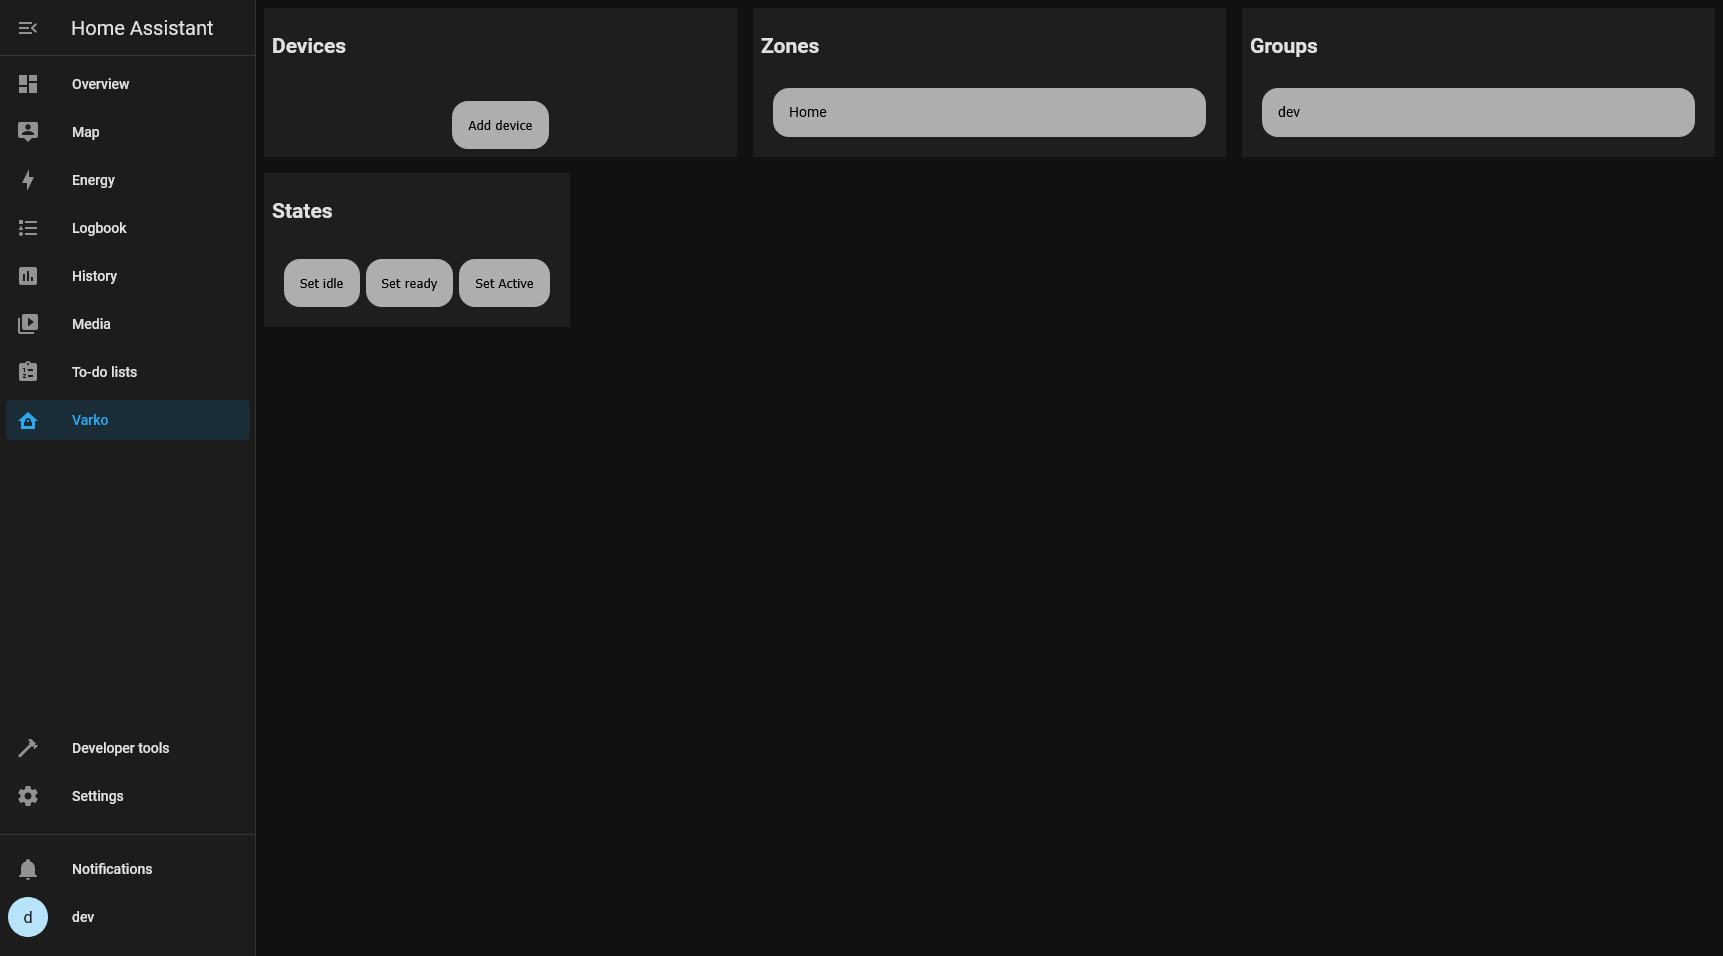
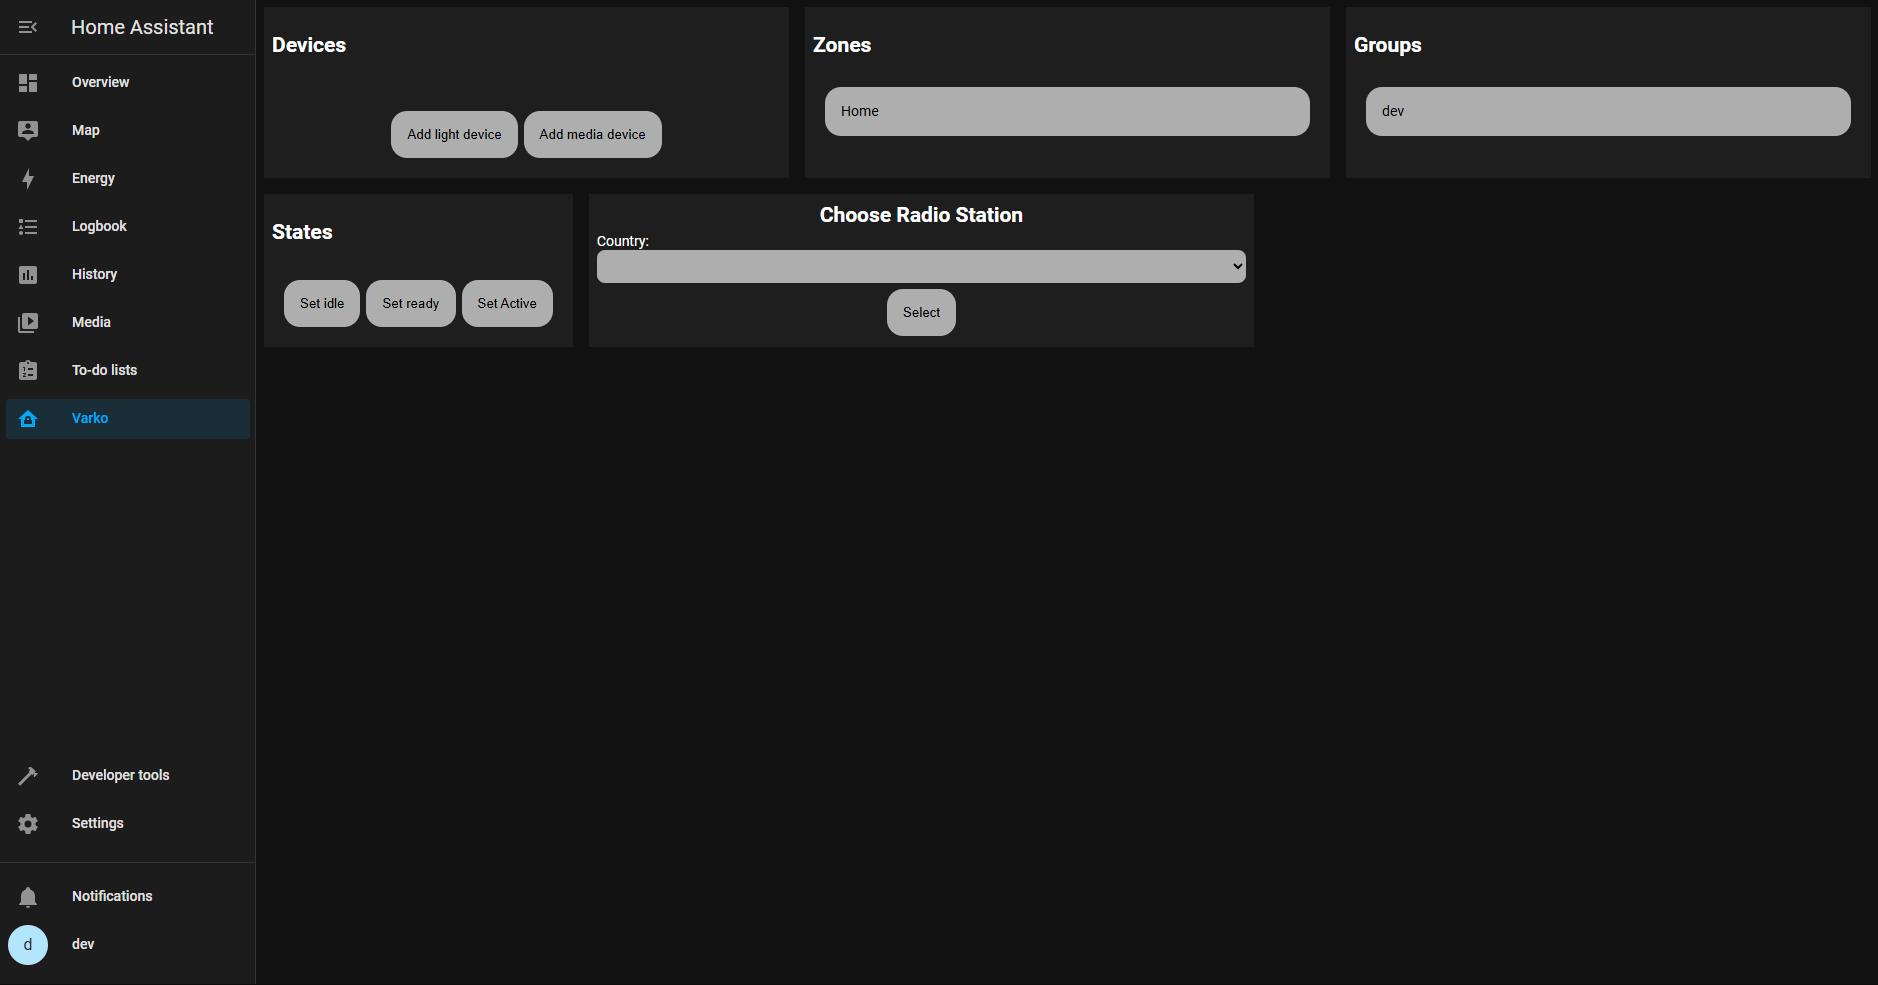
Popravki podatkov testiranja, zaslonskih mask

diff --git a/docs/04_Koncna_izdaja_celovito_koncno_porocilo.md b/docs/04_Koncna_izdaja_celovito_koncno_porocilo.md
@@ -202,24 +202,53 @@ Spodaj so naštete funkcionalne zahteve, razdeljene po prioriteti implementacije
 
 #### Zaslonske maske
 
-[//]: # (TODO: POSODOBI ZASLOVNSKE MASKE)
-
 Uporabniški vmesnik je izdelan kot ločena plošča v sistemu Home Assistant, kjer uporabnik dostopa do nastavitev integracije. Do nje lahko dostopa uporabnik sistema Home Assistant preko glavnega menija na levi strani kontrolne plošče.
 
 Na spodnjih slikah je prikazana kontrolna plošča integracije, ki omogoča:
-- upravljanje z integriranimi napravami - dodajanje in odvzemanje naprav iz uporabe
+- upravljanje z integriranimi napravami - dodajanje in odvzemanje naprav (tako svetlobnih kot zvočnih) iz uporabe
 - upravljanje z lokacijskimi conami - določitev lokacijske cone za uporabo pri delovanju sistema
 - upravljanje s skupino uporabnikov - dodajanje in odvzemanje uporabnikov sistema Home Assistant iz uporabe pri delovanju sistema
 - upravljanje s stanji sistema - ročna nastavitev stanja sistema
+- upravljanje z izbiro radijske postaje - nastavitev za zvočno simulacijo prisotnosti
 
 <p align="center">
   <img src="gradivo/img/Izvedljiv sistem/ui_general.png" alt="Splošen izgled UI">
 </p>
 
-Spodnja slika predstavlja pojavno okno z menijem, ki se pojavi ob kliku na opcijo "Add device". Vsebuje vnosna polja, ki jih je potrebno pred potrditvijo izpolniti.
+Spodaj se nahajajo opisi vsake izmed zgoraj vidnih/naštetih opcij.
+
+Spodnja slika predstavlja primer pojavnega okna z menijem, ki se pojavi ob kliku na opcijo "Devices". Vsebuje vnosna polja, ki jih je potrebno pred potrditvijo izpolniti.
 
 <p align="center">
-  <img src="gradivo/img/Izvedljiv sistem/ui_detail.png" alt="Izgled UI menija">
+  <img src="gradivo/img/Izvedljiv sistem/ui_devices.png" alt="UI meni naprav">
+</p>
+
+Spodnja slika prikazuje primer pojavnega okna z menijem, ki se pojavi ob kliku na opcijo "Zones". V njem uporabnik izbira lokacijsko cono, ki jo je nastavil v Home Assistant, za uporabo pri določanju odsotnosti uporabnikov objekta.
+
+<p align="center">
+  <img src="gradivo/img/Izvedljiv sistem/ui_zones.png" alt="UI meni con">
+</p>
+
+Spodnja slika prikazuje primer pojavnega okna z menijem, ki se pojavi ob kliku na opcijo "Groups". V njem uporabnik ureja skupino uporabnikov objekta.
+
+<p align="center">
+  <img src="gradivo/img/Izvedljiv sistem/ui_groups.png" alt="UI meni skupin">
+</p>
+
+Spodnja slika prikazuje primer pojavnega okna z menijem, ki se pojavi ob kliku na opcijo "States". V njem administrator ročno nastavlja stanje sistema.
+
+<p align="center">
+  <img src="gradivo/img/Izvedljiv sistem/ui_states.png" alt="UI meni stanj">
+</p>
+
+Spodnji sliki prikazujeta primer pojavnega okna z menijem, ki se pojavi ob kliku na opcijo "Choose Radio Station". V njem uporabnik nastavlja radijsko postajo, ki se naj ob simulaciji prisotnosti prižge in začne predvajati. Najprej izbereš državo izvora želene radijske postaje, nato pa še radijsko postajo samo.
+
+<p align="center">
+  <img src="gradivo/img/Izvedljiv sistem/ui_radio_country.png" alt="UI meni radia - države">
+</p>
+
+<p align="center">
+  <img src="gradivo/img/Izvedljiv sistem/ui_radio_station.png" alt="UI meni radia - postaje">
 </p>
 
 Do določenih nastavitev lahko dostopa le administrator sitema Home Assistant, do ostalih pa tudi drugi avtenticirani uporabniki. Ob poskusu nedovoljenega dostopa do funkcionalnosti se uporabniku prikaže obvestilo o premajhnih pooblastilih.
@@ -1298,7 +1327,6 @@ Poslovna logika razvite integracije se ob prejetju sporočila o zaznavi ljudi od
 Stanje sistema lahko administrator sistema kadarkoli nastavi tudi ročno iz uporabniškega vmesnika.
 
 ### Načrtovalski vzorci
-[//]: # (TODO: DODAJ ŠE VSAJ 2 NAČRTOVALSKA VZORCA)
 
 Pri trenutni implementaciji smo se poslužili nekaterih načrtovalski vzorcev, saj so omogočili ne le ponovno uporabo določenih delov kode, temveč tudi večjo preglednost implementacije. Izbrani vzorci so:
 
@@ -1440,27 +1468,7 @@ Za uspešno namestitev sistema je potrebno vzpostaviti in skonfigurirati nasledn
 Za enostavno upravljanje glavnih komponent sistema (Home Assistant, Frigate, posrednik MQTT) se uporabi Docker Compose, ki omogoča enostaven zagon in povezovanje večih vsebnikov. Vse ustrezne nastavitve, vključno z vrati, potmi do konfiguracijskih datotek in parametri za posamezne komponente, so tako definirane v .yaml datoteki, kar bo omogočilo enostavnejšo konfiguracijo, tako med razvojem kot za končne uporabnike.
 
 ## 5.4 Delovanje sistema
-[//]: # (TODO: POPRAVI OPIS IN SLIKE ZA UI)
-
-Uporabniški vmesnik je izdelan kot ločena plošča v sistemu Home Assistant, kjer uporabnik dostopa do nastavitev integracije. Do nje lahko dostopa uporabnik sistema Home Assistant preko glavnega menija na levi strani kontrolne plošče.
-
-Na spodnjih slikah je prikazana kontrolna plošča integracije, ki omogoča:
-- upravljanje z integriranimi napravami - dodajanje in odvzemanje naprav iz uporabe
-- upravljanje z lokacijskimi conami - določitev lokacijske cone za uporabo pri delovanju sistema
-- upravljanje s skupino uporabnikov - dodajanje in odvzemanje uporabnikov sistema Home Assistant iz uporabe pri delovanju sistema
-- upravljanje s stanji sistema - ročna nastavitev stanja sistema
-
-<p align="center">
-  <img src="gradivo/img/Izvedljiv sistem/ui_general.png" alt="Kontrolna plošča">
-</p>
-
-Spodnja slika predstavlja pojavno okno z menijem, ki se pojavi ob kliku na opcijo "Add device". Vsebuje vnosna polja, ki jih je potrebno pred potrditvijo izpolniti.
-
-<p align="center">
-  <img src="gradivo/img/Izvedljiv sistem/ui_detail.png" alt="Odprt meni kontrolne plošče">
-</p>
-
-Do določenih nastavitev lahko dostopa le administrator sitema Home Assistant, do ostalih pa tudi drugi avtenticirani uporabniki. Ob poskusu nedovoljenega dostopa do funkcionalnosti se uporabniku prikaže obvestilo o premajhnih pooblastilih.
+Zaslonske slike in opisi nastavitev sistema v uporabniškem vmesniku so navedeni v tem poročilu, v poglavju 3.1.2, natančneje v podpoglavju zaslonskih mask.
 
 Na dani [povezavi](https://drive.google.com/file/d/1jkdYJKgqECaB8Iw7G31vEh_gptoYXKOg/view) je dostopen video, na katerem je ravidno delovanje ročne aktivacije/deaktivacije sistema (stanja ACTIVE/READY), in s tem posledično tudi vklopa/izklopa simulacije prisotnosti (ta v danem primeru prižge luč).
 Iz videa je razvidno, da se v primeru ročne aktivacije sistema (nastavitev v stanje ACTIVE) luč v sklopu simulacije prisotnosti prižge, in ob ročni deaktivaciji sistema (nastavitev v stanje IDLE) ugasne.
@@ -1484,13 +1492,16 @@ Sistem mora biti testiran v čimbolj realnih pogojih, da se zagotovi zanesljivo 
 
 Testiranje s testi enot se izvaja avtomatično preko Github Actions, ki se poženejo na vsakem Pull Requestu. Tako se še pred združitvijo kode na glavno vejo preverja novo-napisano kodo.
 
-Skupno je bilo napisanih 78 testov enot, ki testirajo funkcionalnosti sistema.
+Skupno je bilo napisanih 106 testov enot, ki testirajo funkcionalnosti sistema:
+- [radio_test.py](test/decorators_test.py): 18 testov enot
+- [decorators_test.py](test/decorators_test.py): 5 testov enot
+- [base_manager_test.py](test/services/base_manager_test.py): 4 testov enot
+- [device_manager_test.py](test/services/device_manager_test.py): 25 testov enot
+- [group_manager_test.py](test/services/group_manager_test.py): 6 testov enot
+- [state_manager_test.py](test/services/state_manager_test.py): 23 testov enot
+- [zone_manager_test.py](test/services/zone_manager_test.py): 25 testov enot
 
-[//]: # (TODO: POSODOBI ŠTEVILKE)
-
-Ustreznost testne strategije bomo ovrednostili s pokritostjo kode:
-
-[//]: # (TODO: POKRITOST KODE S TESTI)
+Ustreznost testne strategije bomo med drugim ovrednostili s pokritostjo kode. Končna pokritost vse kode sistema znaša 83%. Vsa nadaljnja statistika pokritosti kode s testnimi primeri se nahaja v mapi `/coverage` v korenu repozitorija.
 
 ### Statistika končne implementacije prototipa sistema
 
@@ -1510,7 +1521,6 @@ Najprej smo razvili prototip, ki je predstavljal minimalno delujoč sistem in je
 
 Po konsolidaciji pomislekov in predlogov, ki so se pojavili med in po razvitju prototipa, smo začeli z implementacijo končnega produkta.
 
-[//]: # (TODO: DOPOLNI KONEC IMPLEMENTACIJE)
 Ključni dogodki, ki so se zgodili med implementacijo:
 - Vzpostavitev razvojnega okolja - 24.3.2025 ([PR](https://github.com/TPO-2024-2025/Projekt-20/pull/32))
 - Začetek dela na prototipu - 27.3.2025 ([PR](https://github.com/TPO-2024-2025/Projekt-20/pull/34))
@@ -1518,7 +1528,7 @@ Ključni dogodki, ki so se zgodili med implementacijo:
 - Izboljšave kontinuirane integracije (CI) - 6.4.2025 ([PR](https://github.com/TPO-2024-2025/Projekt-20/pull/45))
 - Začetek implementacije končnega produkta - 21.4.2025 ([PR](https://github.com/TPO-2024-2025/Projekt-20/pull/53))
 - Dodan CI na GitHub Actions - 4.5.2025 ([PR](https://github.com/TPO-2024-2025/Projekt-20/pull/74))
-- Konec implementacije končnega produkta -
+- Konec implementacije končnega produkta - 25.5.2025 ([PR](https://github.com/TPO-2024-2025/Projekt-20/pull/97))
 
 ## 6.1 Usklajevanje ekipe
 
